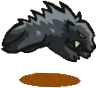
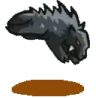
next кнопка

diff --git a/public/static/js/monsters.js b/public/static/js/monsters.js
@@ -35,13 +35,15 @@ const monster3 = {
 }
 
 const monster4 = {
-    hp: 100,
-    maxhp: 100,
-    speed: 3,
-    cost: 10,
-    width: 50,
-    height: 50,
-    name: "monster4"
+    hp: 200,
+    maxhp: 200,
+    speed: 1,
+    cost: 80,
+    width: 136,
+    height: 133,
+    type: "walking",
+    name: "monster4",
+    baseTime: [40, 54, 48, 60],
 }
 
 const monster5 = {
@@ -102,6 +104,22 @@ const monster3_step3_rev = new Image();
 monster3_step3_rev.src = "../static/images/monster3_step3_rev.png";
 const monster3_step4_rev = new Image();
 monster3_step4_rev.src = "../static/images/monster3_step4_rev.png";
+const monster4_step1 = new Image();
+monster4_step1.src = "../static/images/monster4_step1.png";
+const monster4_step2 = new Image();
+monster4_step2.src = "../static/images/monster4_step2.png";
+const monster4_step3 = new Image();
+monster4_step3.src = "../static/images/monster4_step3.png";
+const monster4_step4 = new Image();
+monster4_step4.src = "../static/images/monster4_step4.png";
+const monster4_step1_rev = new Image();
+monster4_step1_rev.src = "../static/images/monster4_step1_rev.png";
+const monster4_step2_rev = new Image();
+monster4_step2_rev.src = "../static/images/monster4_step2_rev.png";
+const monster4_step3_rev = new Image();
+monster4_step3_rev.src = "../static/images/monster4_step3_rev.png";
+const monster4_step4_rev = new Image();
+monster4_step4_rev.src = "../static/images/monster4_step4_rev.png";
 
 
 const image3 = new Image();
@@ -189,6 +207,31 @@ monster3_step3_rev.onload = () => {
 }
 monster3_step4_rev.onload = () => {
     monster3.step4_rev = monster3_step4_rev;
+}
+
+monster4_step1.onload = () => {
+    monster4.step1 = monster4_step1;
+}
+monster4_step2.onload = () => {
+    monster4.step2 = monster4_step2;
+}
+monster4_step3.onload = () => {
+    monster4.step3 = monster4_step3;
+}
+monster4_step4.onload = () => {
+    monster4.step4 = monster4_step4;
+}
+monster4_step1_rev.onload = () => {
+    monster4.step1_rev = monster4_step1_rev;
+}
+monster4_step2_rev.onload = () => {
+    monster4.step2_rev = monster4_step2_rev;
+}
+monster4_step3_rev.onload = () => {
+    monster4.step3_rev = monster4_step3_rev;
+}
+monster4_step4_rev.onload = () => {
+    monster4.step4_rev = monster4_step4_rev;
 }
 
 image3.onload = () => {

diff --git a/public/pages/attack_play.html b/public/pages/attack_play.html
@@ -108,13 +108,12 @@
     <div class="popupcomplete__bg">
         <div class="popupcomplete">
             <h1 class="complete">LEVEL COMPLETE</h1>
-            <form id="next-lvl-form" class="hidden" method="POST" enctype="multipart/form-data">
-                <input type="text" name="gameId" required />
-                <input type="text" name="money" required />
-                <input type="text" name="score" required />
-                <input type="text" name="currentLvl" required />
-                <input type="text" name="nikcname" required />
-                <input type="text" name="mobs_unlock" required />
+            <form id="next-lvl-form" method="POST" enctype="multipart/form-data">
+                <input type="text" name="gameId" class="hidden" />
+                <input type="text" name="money" class="hidden" />
+                <input type="text" name="score" class="hidden" />
+                <input type="text" name="currentLvl" class="hidden" />
+                <input type="text" name="mobs_unlock" class="hidden" />
                 <div class="next-lvl-container">
                     <input class="next-lvl-btn" id="next-lvl-btn" type="submit" value="Next level">
                 </div>

diff --git a/public/static/js/attack_play.js b/public/static/js/attack_play.js
@@ -186,6 +186,7 @@ function sendNextlvlParams() {
     money.value = String(GAME.money);
     score.value = String(GAME.score);
     currLvl.value = String(GAME.lvlCount);
+    console.log(gameId.value)
     // mobsUnlock.value = ...;
     // отправка формы
 }
@@ -393,6 +394,7 @@ function play() {
     updateVisualLvlParams();
     drawBackground();
     updateMobDataAtk();
+    drawStrikes();
     moveMonsters(GAME, lvls);
     drawCastle();
     if (GAME.isPlay == 'wavepause') {
@@ -415,7 +417,6 @@ function play() {
     drawTower();
     drawArrows();
     drawBullets();
-    drawStrikes();
     attackTowers(GAME);
     // drawBonuses();
     gameOver();

diff --git a/public/pages/defense.html b/public/pages/defense.html
@@ -122,6 +122,14 @@
             </div>
         </div>
     </div>
+    <div class="popupcomplete__bg">
+        <div class="popupcomplete">
+            <h1 class="complete">LEVEL COMPLETE</h1>
+            <div class="next-lvl-container">
+                <button class="next-lvl-btn" id="next-lvl-btn">Next level</button>
+            </div>
+        </div>
+    </div>
     <script type="application/javascript" src="../static/js/monsters.js"></script>
     <script type="application/javascript" src="../static/js/towers.js"></script>
     <script type="application/javascript" src="../static/js/lvls.js"></script>

diff --git a/public/static/js/lvls.js b/public/static/js/lvls.js
@@ -11,7 +11,7 @@ const lvl1 = {
     castle_h: 400,
     money: 100,
     start_dir: 'r',
-    waves: [[monster1, monster3], [monster1, monster1, monster1, monster2], [monster2, monster1, monster1, monster1, monster1]],
+    waves: [[monster1, monster4], [monster1, monster1, monster3, monster2], [monster2, monster1, monster1, monster1, monster1]],
     atk_towers: [[archer], [archer, bash], [bash, archer]],
     bonuses: ["fireball"],
     back_src:  "../static/images/MAP1.png",

diff --git a/public/static/js/defense.js b/public/static/js/defense.js
@@ -338,6 +338,7 @@ function play() {
     updateVisualLvlParams();
     drawBackground();
     drawTiles(GAME, lvls);
+    drawStrikes();
     updateMobDataDef();
     moveMonsters(GAME, lvls);
     drawCastle();
@@ -364,7 +365,6 @@ function play() {
     drawTower();
     drawArrows();
     drawBullets();
-    drawStrikes();
     attackTowers(GAME);
     drawBonuses();
     gameOver();

diff --git a/public/static/js/tower_attack.js b/public/static/js/tower_attack.js
@@ -26,7 +26,7 @@ function makeBullet(tower, mstrCenterX, mstrCenterY) {
         x: tower.x + 50,
         y: tower.y + 50,
         radius: 20,
-        blastRadius: 70,
+        blastRadius: 90,
         init: true,
         color: "black",
         radiusColor: "red",
